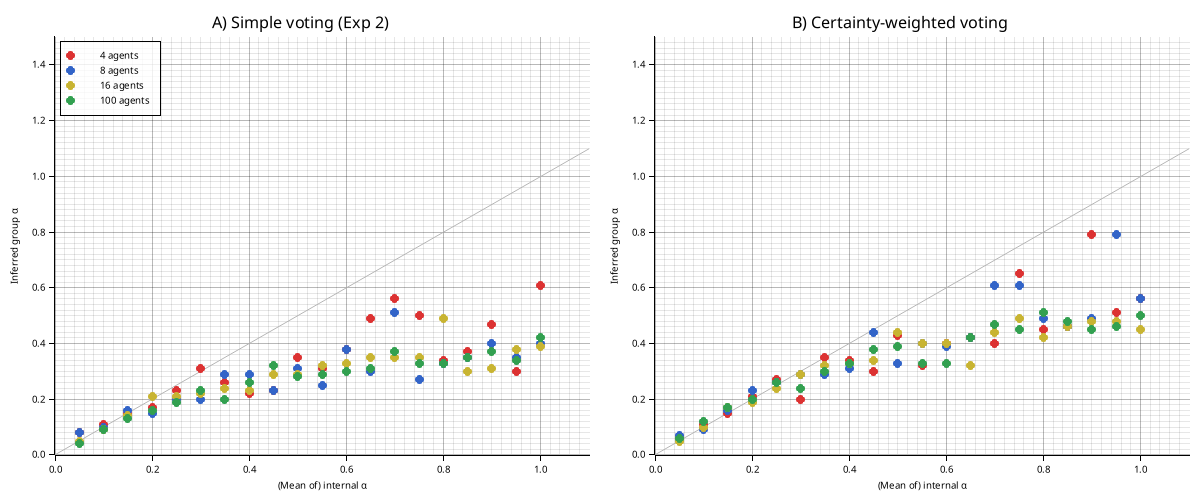
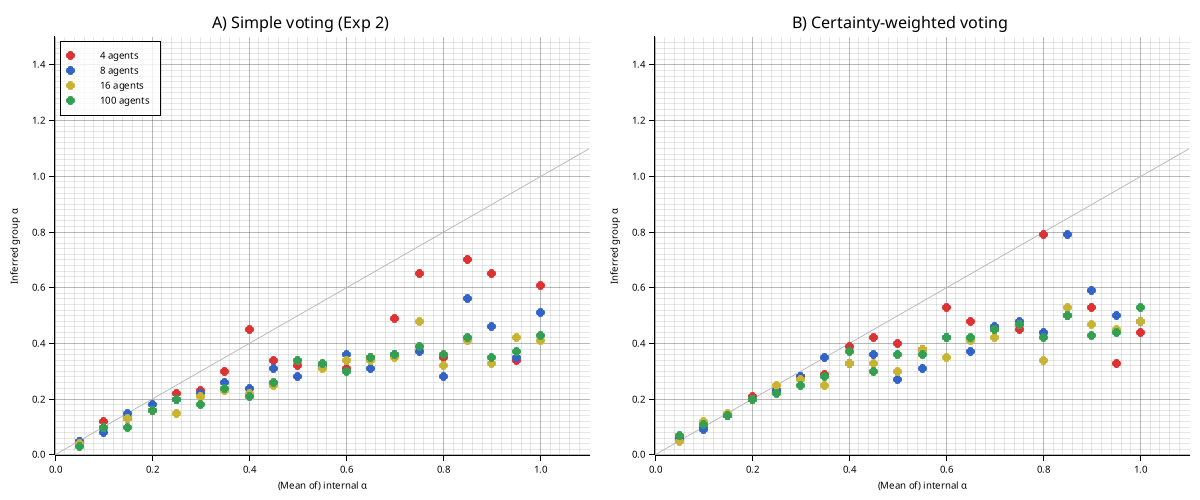
docs: regenerate figures under 0.9.0; README provenance + extension 11
Committed plots dated from v0.4.0 (five releases stale). Regenerated
under aif 0.9.0 and visually verified all four Fig-5 shapes, the Fig-4
identifiable-region band, and the Fig-6 CW-vs-simple comparison.
README gains a provenance note (unseeded env, #2 — qualitative shapes
are the reproduced claims), the extension-11 extensivity finding with
report link, and the extension11 bin in the module table.

Claude-Session: https://claude.ai/code/session_01KnwHVvput3ffCe38DBRrxi

diff --git a/README.md b/README.md
@@ -41,6 +41,10 @@ All four qualitative findings from the paper are reproduced, plus an extension:
 | 4 | Varying preferences (Beta) | Strongly reduced group α | Crushed near 0 |
 | 5 | Certainty-weighted voting | More faithful average (§4.1) | Closer to identity than Exp 2 |
 
+*Figures below were generated by the current release (aif 0.9.0, 2026-07-16). The bandit
+environment is unseeded ([issue #2](https://github.com/sustia-llc/tira/issues/2)), so the
+exact scatter varies per regeneration — the reproduced claims are the qualitative shapes.*
+
 ### Figure 4 — Parameter Recovery
 
 α recovers well for true α ∈ [0, ~0.6], then degenerates as behaviour becomes fully deterministic.
@@ -57,6 +61,17 @@ Agents report full action distributions; the active agent weights by confidence 
 CW voting (right) tracks closer to the identity line than simple probabilistic voting (left).
 
 ![Certainty-weighted comparison](plots/figure6_certainty_weighted.png)
+
+### Extension 11 — free-energy extensivity (study, no figure)
+
+Is group F the sum of individual Fs (the paper's §4.1 open question)? **No — and the group
+is essentially intensive**: strict extensivity fails as ~1/n (group F is n-independent,
+~0.5 nat/step), and the intensive ratio F_group/mean(F_i) is **precision-controlled, not
+size-controlled** — ≈ 0.98 at α = 0.7 (group ≈ typical member) vs ≈ 0.70 at α = 0.3, where
+the group *outpredicts* its average member because the Markov blanket's vote averages out
+low-precision exploration noise. Full tables and mechanism:
+[extension11-extensivity.md](docs/extension11-extensivity.md); run with
+`cargo run --release -p reproduce --bin extension11`.
 
 ## Architecture
 
@@ -87,6 +102,7 @@ Environment (BanditEnvironment)
 | `crates/reproduce/src/simulation.rs` | Simulation runner, parameter recovery (grid search + half-normal prior), 5 experiment factories |
 | `crates/reproduce/src/plotter.rs` | Plotters-based scatter helpers (pending consolidation with the binary's figure code) |
 | `crates/reproduce/src/bin/reproduce.rs` | Full paper reproduction binary |
+| `crates/reproduce/src/bin/extension11.rs` | Free-energy extensivity study (extension 11) |
 
 ## Usage
 
